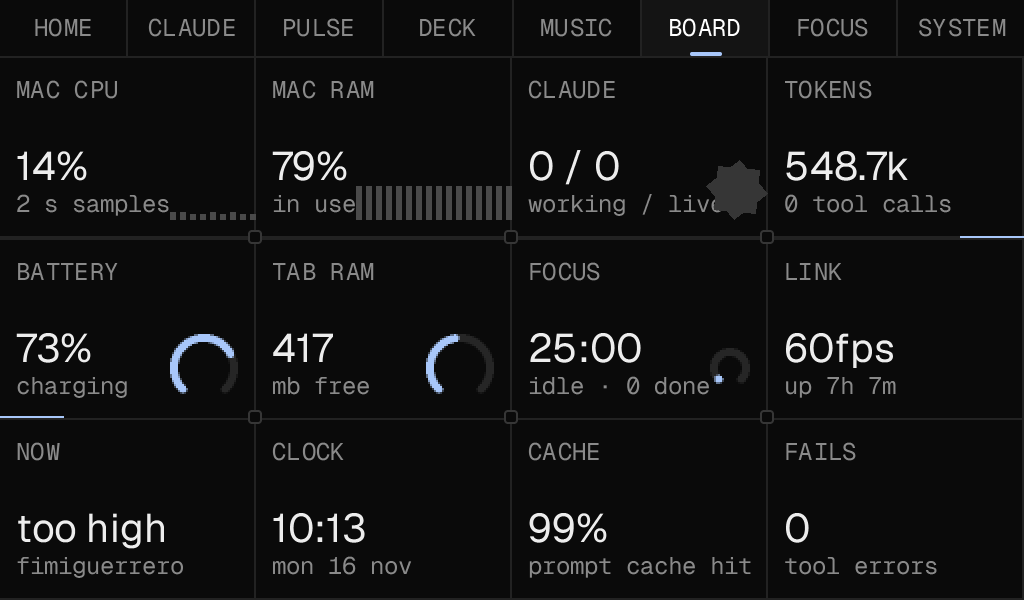
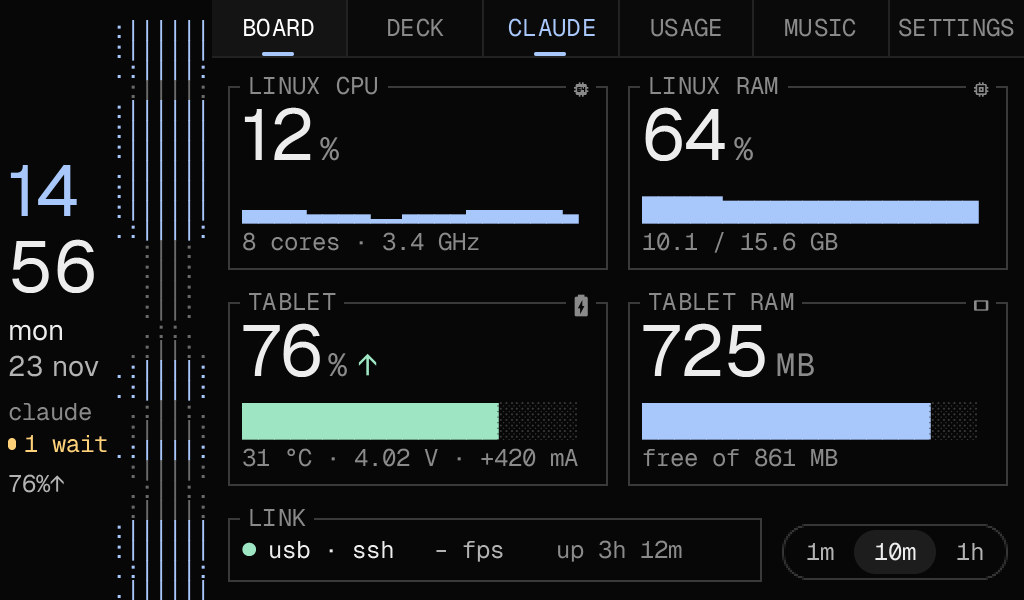
docs: README screenshots and text for the redesigned UI
Screenshots are rendered by the PocketJS web renderer from mock data, so no
private session or project names end up in the repo.

diff --git a/README.md b/README.md
@@ -1,21 +1,26 @@
 # PocketDeck
 
 **A 2017 Lenovo Tab 7 (TB-7304X, MT6737M) turned into a 60 fps desk display**: Claude Code sessions, a stream-deck
-grid, Now Playing, host and tablet vitals and a focus timer. It runs mainline Linux, and saving a UI file on the
-host hot-reloads the tablet in about 2 seconds.
+grid, now playing, host and tablet vitals, Claude usage and the tablet's own settings. It runs mainline Linux, and
+saving a UI file on the host hot-reloads the tablet in about 2 seconds.
+
+The panel is cracked, with dead pixels on the left fifth: that strip is the **rail** (clock, date, Claude status,
+battery and an ASCII sound wave) and every page lives in the clean area to its right. Read-only content is drawn
+as terminal frames, everything you tap is rounded; icons are single-colour Nerd Font glyphs.
 
 | | |
 |---|---|
-| ![home](docs/assets/screenshots/home.png) | ![claude](docs/assets/screenshots/claude.png) |
-| **HOME**: clock, ASCII ridge field, glance row | **CLAUDE**: live sessions, tokens, context, tool timeline, quick actions |
-| ![permission](docs/assets/screenshots/permission.png) | ![board](docs/assets/screenshots/board.png) |
-| **Alerts**: a session needs you; allow/deny from the tablet | **BOARD**: every live number in one cell grid |
-| ![pulse](docs/assets/screenshots/pulse.png) | ![deck](docs/assets/screenshots/deck.png) |
-| **PULSE**: today's Claude usage, by hour and project | **DECK**: tappable actions that run on the host |
-| ![focus](docs/assets/screenshots/focus-running.png) | ![system](docs/assets/screenshots/system.png) |
-| **FOCUS**: a timer whose shape fans out as time runs down | **SYSTEM**: frame-time graph against the 16.7 ms budget |
+| ![board](docs/assets/screenshots/board.png) | ![deck](docs/assets/screenshots/deck.png) |
+| **BOARD**: host and tablet vitals, 1m / 10m / 1h history | **DECK**: tappable actions that run on the host |
+| ![claude](docs/assets/screenshots/claude.png) | ![claude question](docs/assets/screenshots/claude-question.png) |
+| **CLAUDE**: live sessions, reply, current step, context | **CLAUDE**: answer questions, approve plans and permissions from the tablet |
+| ![usage](docs/assets/screenshots/usage.png) | ![music](docs/assets/screenshots/music.png) |
+| **USAGE**: today's tokens by hour and project, or the last 7 days | **MUSIC**: cover art, tap-to-seek bar, shuffle, repeat, volume |
+| ![settings](docs/assets/screenshots/settings.png) | ![settings confirm](docs/assets/screenshots/settings-confirm.png) |
+| **SETTINGS**: reboot targets, brightness, WiFi, charge limit, system info | confirmations pause the cracked glass's ghost-touch filters |
 
-Panes and tiles are configured in **Deck Studio**, a small web app deckd serves on localhost.
+Screenshots come from the PocketJS web renderer with mock data (`pocketjs/apps/desk/preview`); panes and tiles
+are configured in **Deck Studio**, a small web app deckd serves on localhost.
 
 ## From a stock tablet
 
@@ -61,10 +66,12 @@ Panes and tiles are configured in **Deck Studio**, a small web app deckd serves 
 
 Works on the device: display (mediatek-drm, 60 Hz), touch, buttons, 4 cores with cpufreq, GPU (Panfrost), eMMC,
 USB networking, WiFi, charger/battery/RTC/thermal, accelerometer; the boot chain with slots, boot counter, boot menu
-and Android rollback; the deck UI with hot reload, all panes, deck actions and Claude hooks; Deck Studio.
+and Android rollback; the redesigned UI (six pages, rail, hot reload, deck actions, Claude hooks), tablet settings
+run locally on the tablet (reboot targets, brightness, WiFi, charge limit), Deck Studio.
 
 Open: Bluetooth (powers on, scans find nothing), hardware display planes, GPU frequency scaling; approving
-permission prompts from the tablet is built but experimental. Audio, camera and modem are not planned.
+permission prompts from the tablet is built but experimental; the macOS side of deckd's new data (Music.app
+controls, lock detection) is written but untested. Audio, camera and modem are not planned.
 Details: [docs/hardware/status.md](docs/hardware/status.md).
 
 ## Credits
